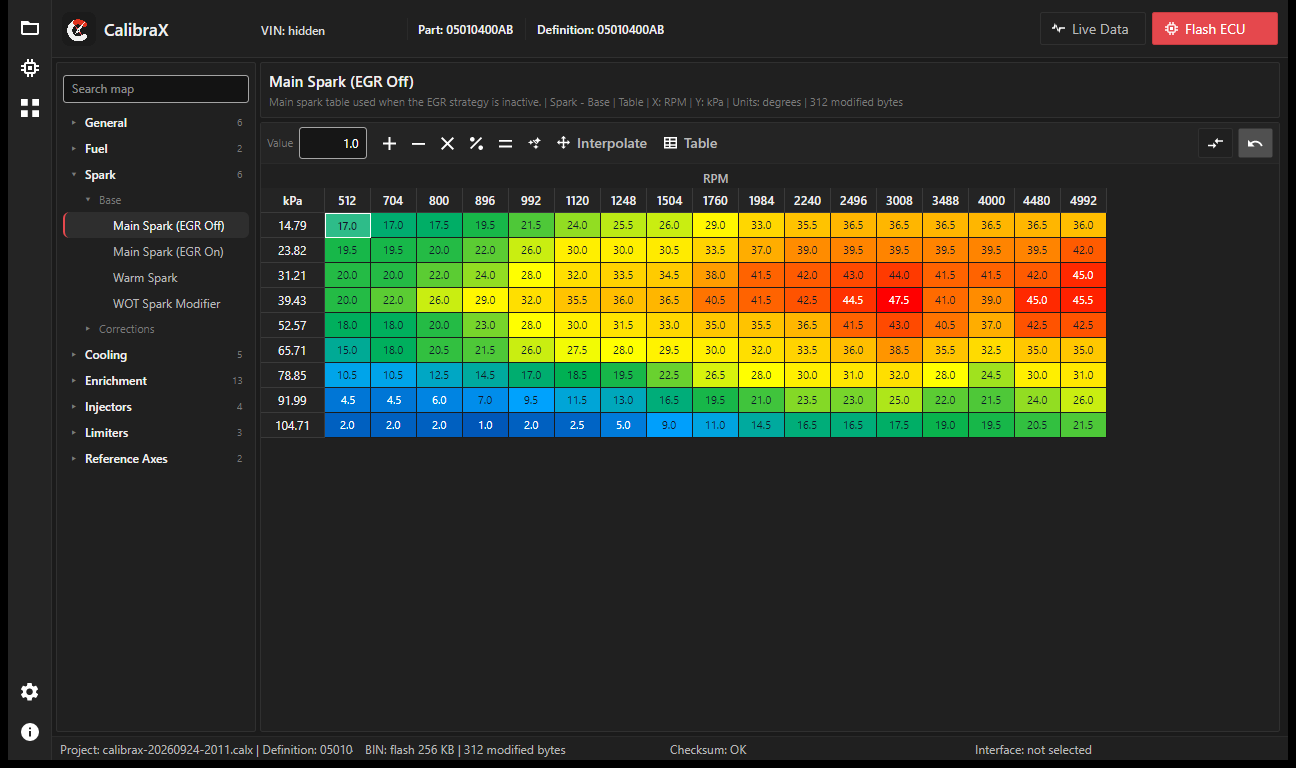
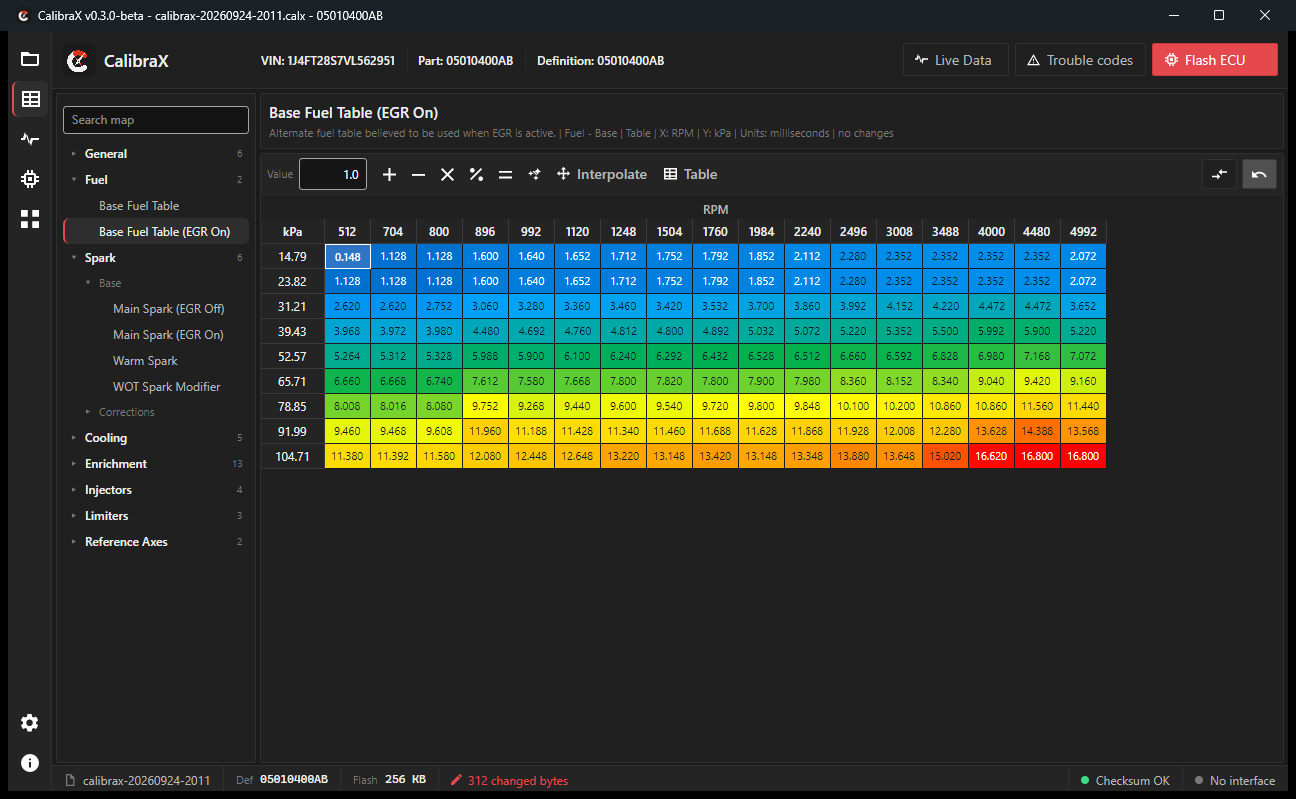
README: document the Logger screen (live data, log tables, log viewer) and trouble codes; refresh the main editor screenshot

diff --git a/README.md b/README.md
@@ -15,10 +15,26 @@ visualize tables as curves or 3D surfaces.
   project file.
 - **Table and scalar editors** with correct units, scaling, and axis breakpoints
   per part number — no hand-picked offsets.
-- **Compare & Undo** against the original flash image while editing.
+- **Compare & Undo** against the original flash image while editing, with a
+  per-table count of what changed.
 - **Curve and 3D surface views** for any table, alongside the standard grid.
-- **Live data**: view real-time engine parameters (RPM, MAP, coolant temp, and
-  more) while connected to the vehicle.
+- **Logger**: a dedicated screen for live engine data, separate from the table
+  editor.
+  - View real-time parameters (RPM, MAP, coolant temp, fuel trims, and more)
+    while connected to the vehicle, and record them to a CSV log.
+  - Log tables fill in live as you drive: short and long term fuel trim, spark
+    advance, and injector pulse width, each averaged by RPM and MAP — the same
+    layout as the base fuel table, so a rich or lean cell is easy to spot.
+  - Open a previously recorded log to browse it: a chart of every channel
+    against time (zoom, pan, scrub), and the same log tables filled from the
+    whole file or filled live as you play it back.
+
+  ![Logger: live data and log tables](docs/screenshot-logger-live.png)
+  ![Logger: a recorded log's chart](docs/screenshot-logger-chart.png)
+  ![Logger: log tables from a recorded file](docs/screenshot-log-tables.png)
+
+- **Trouble codes**: read stored, pending, and one-trip fault codes, named from
+  your calibration when possible. 🔒 *clearing codes requires a license*
 - **Apps**: extend CalibraX with additional tools that run inside the app — the
   first one available is a byte-level Hex Editor for the flash and other
   captured memory images. 🔒 *some apps require a separate license*
@@ -28,7 +44,7 @@ visualize tables as curves or 3D surfaces.
 - **Write ECU flash / checksum repair** 🔒 *requires a license* — see
   [Licensing](#licensing) below.
 
-Everything above except the two marked 🔒 works with no license at all.
+Everything above except the parts marked 🔒 works with no license at all.
 
 ## Supported vehicles
 
